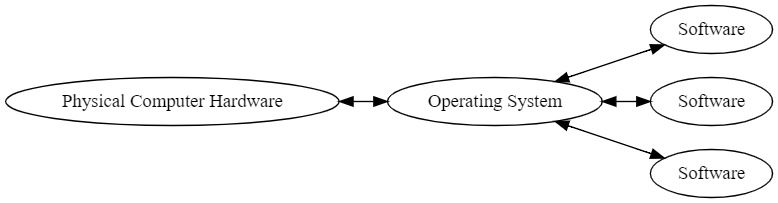
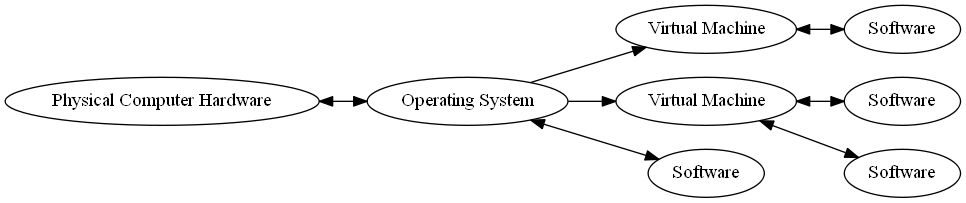
images and edits

diff --git a/_posts/2019-10-15-unpacking-containers.md b/_posts/2019-10-15-unpacking-containers.md
@@ -22,9 +22,7 @@ If you've persevered to this point in the point, you deserve an explaination of 
 
 These are physical computers made of glass, plastic and metal. The physical *hardware* resources (processor, memory, storage, screen) that make up a computer are (generally) given instructions by the software it runs via an *operating system* such as Windows or Linux. Software that has been engineered for one operating system (generally) will not work on another.
 
-**Physical Computer Hardware <-> Operating System <-> Software**
-
-![](../_site/assets/images/vm-container-blog/vm.png)
+{% include image_caption.html url="/assets/images/vm-container-blog/no_vm.png" description="Computers, operating systems and software"%}
 
 When software is installed, typically a bunch of files are copied onto the computer and some other files are altered. Yet more prerequisite files might be downloaded from another source. A problem arises if, by installing one piece of software, a file on which another piece of software depends is altered or removed. This can be accidental or malicious. Malicious software can be deliberately designed to access data which should remain private to other software.
 
@@ -32,9 +30,9 @@ Another potential problem is a situation where the software runs, but behaves di
 
 ## Virtual machines...
 
-A virtual machine (or VM) is, in effect, a piece of software running on a physical computer, that acts like another operating system.
+A virtual machine (or VM) is, in effect, a piece of software running on a physical computer, that acts like another operating system. A computer in the imagination of another.
 
-**Physical Computer Hardware <-> Operating System <-> Virtual Machine <-> Software**
+{% include image_caption.html url="/assets/images/vm-container-blog/vm.png" description="Virtual machines"%}
 
 Software can then be run on the virtual machine. Much as multiple pieces of software can be installed on a single physical computer, so can multiple virtual machines. And multiple pieces of software can be installed on each virtual machine. All this comes at a performance cost - software running on a virtual machine will not generally go as fast as the same running directly on physical hardware. So why bother with all this complexity?
 
@@ -51,7 +49,7 @@ So virtual machines can be really helpful, but they can be slow to run and also 
 
 Containers get round some of the problems with virtual machines. The term "container" is not always defined in exactly the same way, but in general: Rather than running on an operating system like virtual machines, containers allow software running in them access hardware more directly, but restrict what hardware they can use and interaction between discrete containers. This means they avoid some of the slowdown associated with virtual machines, but can still be configured and replicated to ensure that software runs consistently.
 
-**Physical Computer Hardware <-> Operating System <-> Container(Software)**
+{% include image_caption.html url="/assets/images/vm-container-blog/containers.png" description="Containers"%}
 
 The great successes of containers are in:
 
